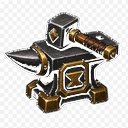
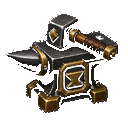
Knock out studio backgrounds so Discord emojis are transparent.
The original pack was painted on an off-white canvas, which Discord
showed as white squares. Flood-fill the paper and contact shadows,
decontaminate the fringe, bump the pack version so the bot replaces
the old guild emojis, and require RGBA PNGs in tests.

diff --git a/discord-bot/src/emojis.js b/discord-bot/src/emojis.js
@@ -2,6 +2,7 @@
 
 const fs = require("fs");
 const path = require("path");
+const state = require("./state");
 
 const DIR = path.join(__dirname, "..", "emojis");
 
@@ -15,6 +16,8 @@ const PACK = [
   "flask",
   "bag",
 ];
+
+const PACK_VERSION = 2;
 
 function mention(guild, name) {
   if (!guild || !guild.emojis) return "";
@@ -33,23 +36,31 @@ async function ensureEmojis(guild, report) {
     report.push("no emoji files found");
     return;
   }
+  const current = state.guildState(guild.id).g.emojiPackVersion || 0;
+  const replace = current !== PACK_VERSION;
   for (const name of PACK) {
     const existing = guild.emojis.cache.find((e) => e.name === name);
-    if (existing) {
-      report.push(`reused emoji :${name}:`);
-      continue;
-    }
     const file = path.join(DIR, `${name}.png`);
     if (!fs.existsSync(file)) {
       report.push(`missing emoji file ${name}.png`);
       continue;
     }
+    if (existing && !replace) {
+      report.push(`reused emoji :${name}:`);
+      continue;
+    }
     try {
+      if (existing) await existing.delete("Replace Lodestar emoji pack");
       await guild.emojis.create({ attachment: file, name, reason: "Lodestar Guide emoji pack" });
-      report.push(`uploaded emoji :${name}:`);
+      report.push(`${existing ? "replaced" : "uploaded"} emoji :${name}:`);
     } catch (err) {
       report.push(`could not upload :${name}: ${err.message}`);
     }
+  }
+  if (replace) {
+    state.patch(guild.id, (g) => {
+      g.emojiPackVersion = PACK_VERSION;
+    });
   }
 }
 

diff --git a/discord-bot/test/bot.test.js b/discord-bot/test/bot.test.js
@@ -116,6 +116,9 @@ describe("emoji pack", () => {
       const file = path.join(__dirname, "..", "emojis", `${name}.png`);
       assert.ok(fs.existsSync(file), file);
       assert.ok(fs.statSync(file).size < 256 * 1024);
+      const png = fs.readFileSync(file);
+      // PNG must have an alpha channel so Discord does not paint a white box.
+      assert.equal(png[25], 6, `${name} should be RGBA`);
     }
   });
 });

diff --git a/discord-bot/scripts/knockout-emoji-bg.py b/discord-bot/scripts/knockout-emoji-bg.py
@@ -1,0 +1,126 @@
+#!/usr/bin/env python3
+"""Knock out the light studio background so Discord emojis are actually transparent."""
+
+from collections import deque
+from pathlib import Path
+
+from PIL import Image
+
+DIR = Path(__file__).resolve().parent.parent / "emojis"
+
+
+def is_studio_paper(r, g, b, a):
+    if a == 0:
+        return True
+    mx, mn = max(r, g, b), min(r, g, b)
+    # near-white / light gray, low saturation (the generated studio backdrop)
+    return mx >= 205 and (mx - mn) <= 24
+
+
+def is_contact_shadow(r, g, b, a):
+    """Soft drop-shadow / anti-aliased halo around the icon, not the icon itself."""
+    mx, mn = max(r, g, b), min(r, g, b)
+    sat = mx - mn
+    if sat > 22:
+        return False
+    if a < 180:
+        return True
+    return mx >= 168
+
+
+def flood_mask(im):
+    w, h = im.size
+    px = im.load()
+    seen = [[False] * w for _ in range(h)]
+    q = deque()
+
+    def push(x, y, pred):
+        if x < 0 or y < 0 or x >= w or y >= h or seen[y][x]:
+            return
+        r, g, b, a = px[x, y]
+        if not pred(r, g, b, a):
+            return
+        seen[y][x] = True
+        q.append((x, y))
+
+    for x in range(w):
+        push(x, 0, is_studio_paper)
+        push(x, h - 1, is_studio_paper)
+    for y in range(h):
+        push(0, y, is_studio_paper)
+        push(w - 1, y, is_studio_paper)
+
+    while q:
+        x, y = q.popleft()
+        for dx, dy in ((1, 0), (-1, 0), (0, 1), (0, -1)):
+            push(x + dx, y + dy, is_studio_paper)
+
+    # Second pass: eat contact shadows that touch already-cleared paper.
+    q.clear()
+    for y in range(h):
+        for x in range(w):
+            if seen[y][x]:
+                q.append((x, y))
+    while q:
+        x, y = q.popleft()
+        for dx, dy in ((1, 0), (-1, 0), (0, 1), (0, -1)):
+            push(x + dx, y + dy, is_contact_shadow)
+
+    return seen
+
+
+def unblend_white(r, g, b, a):
+    if a <= 0:
+        return (r, g, b, 0)
+    if a >= 255:
+        return (r, g, b, a)
+    fa = a / 255.0
+    def ch(c):
+        v = (c / 255.0 - (1.0 - fa)) / fa
+        return int(max(0, min(255, round(v * 255))))
+    return (ch(r), ch(g), ch(b), a)
+
+
+def apply(im):
+    im = im.convert("RGBA")
+    mask = flood_mask(im)
+    px = im.load()
+    w, h = im.size
+    for y in range(h):
+        for x in range(w):
+            if mask[y][x]:
+                r, g, b, _ = px[x, y]
+                px[x, y] = (r, g, b, 0)
+                continue
+            r, g, b, a = px[x, y]
+            mx, mn = max(r, g, b), min(r, g, b)
+            neighbor = False
+            for dx, dy in ((-1, 0), (1, 0), (0, -1), (0, 1)):
+                nx, ny = x + dx, y + dy
+                if 0 <= nx < w and 0 <= ny < h and mask[ny][nx]:
+                    neighbor = True
+                    break
+            if not neighbor:
+                continue
+            # leftover paper mixed into the silhouette: convert to alpha and
+            # pull RGB off white so Discord's dark theme does not show a halo
+            if mx >= 190 and (mx - mn) <= 32:
+                fade = int(255 * max(0.0, (230 - mx) / 50))
+                a = max(0, min(a, fade))
+            px[x, y] = unblend_white(r, g, b, a)
+    return im
+
+
+def main():
+    for path in sorted(DIR.glob("*.png")):
+        im = Image.open(path)
+        out = apply(im)
+        out.save(path, "PNG", optimize=True)
+        px = out.load()
+        w, h = out.size
+        transparent = sum(1 for y in range(h) for x in range(w) if px[x, y][3] == 0)
+        print(f"{path.name:16} transparent={transparent:5}/{w * h} size={path.stat().st_size}")
+
+
+if __name__ == "__main__":
+    main()
